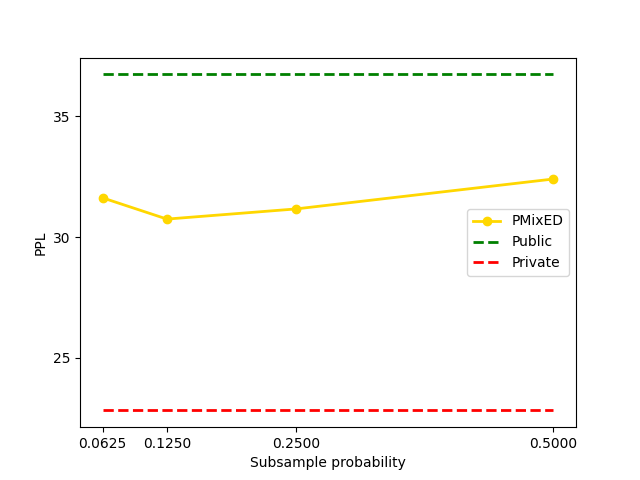
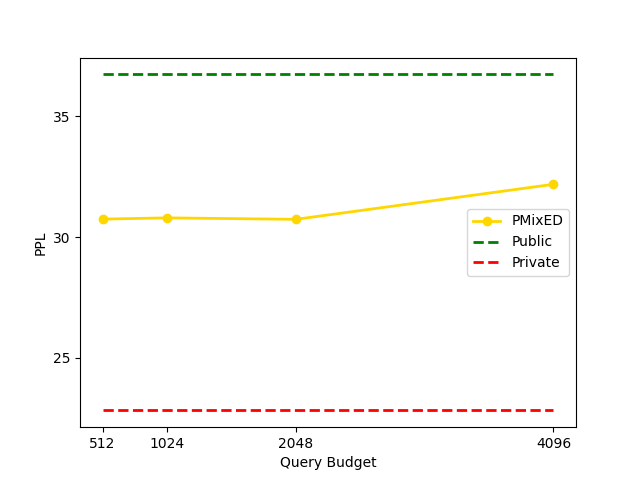
Finished ablation

diff --git a/gen_plts.py b/gen_plts.py
@@ -11,7 +11,7 @@ plt.plot(df.iloc[:5]['epsilon'], [36.74 for _ in range(5)], linestyle='dashed', 
 plt.plot(df.iloc[:5]['epsilon'], [22.83 for _ in range(5)], linestyle='dashed', linewidth=2, label='Private', color="red")
 plt.xlabel("Epsilon")
 plt.yticks([25, 30, 35])
-plt.xticks([2, 4, 6, 8])
+plt.xticks([2, 4, 6, 8, 10])
 plt.ylabel("PPL")
 plt.legend(loc='center left')
 plt.savefig('plts/epsilon.png')
@@ -44,7 +44,7 @@ plt.plot(df.iloc[14:18]['query_budget'], [36.74 for _ in range(4)], linestyle='d
 plt.plot(df.iloc[14:18]['query_budget'], [22.83 for _ in range(4)], linestyle='dashed', linewidth=2, label='Private', color="red")
 plt.xlabel("Query Budget")
 plt.yticks([25, 30, 35])
-plt.xticks([256, 512, 1024, 2048])
+plt.xticks([512, 1024, 2048, 4096])
 plt.ylabel("PPL")
 plt.legend()
 plt.savefig('plts/query_budget.png')
@@ -58,5 +58,21 @@ plt.yticks([25, 30, 35])
 plt.xticks([1/16, 1/8, 1/4, 1/2])
 plt.ylabel("PPL")
 plt.legend()
-plt.savefig('plts/query_budget.png')
+plt.savefig('plts/probability.png')
+plt.clf()
+
+data = {"Public": 35.98, "Private": 22.61, "DP-SGD": 37.33, "PMixED": 30.80}
+
+bars = plt.bar(data.keys(), data.values(), width=0.4)
+bars[0].set_color('green')
+bars[1].set_color('red')
+bars[2].set_color('blue')
+bars[2].set_color('gold')
+for bar in bars:
+    yval = bar.get_height()
+    plt.text(bar.get_x()+0.2, yval+0.1, yval, ha='center')
+#plt.text(35.98, 35.98, 35.98, ha="center")
+
+plt.ylabel("PPL")
+plt.savefig("plts/comparison.png")
 plt.clf()

diff --git a/ensemble.py b/ensemble.py
@@ -38,12 +38,12 @@ class Ensemble():
             a = 1 
             while self.subsample_eps(a * self.eps / self.q_budget, self.p, self.alpha) < self.eps / self.q_budget:
                 a += 1
-            #print("a value", (a-1))
+            print("a value", (a-1))
             self.eps = self.eps * (a-1)
 
         self.target = np.log(self.num_ensemble * np.exp((self.alpha-1) * alpha * self.eps / self.q_budget)
                         + 1 - self.num_ensemble) / (4*(self.alpha - 1))
-        #print(f"Target value {self.target:2f}")
+        print(f"Target value {self.target:2f}")
         self.lora_ensemble = 0 
         for i, dir in enumerate(self.model_dirs):
             if i == 0:

diff --git a/experiments.py b/experiments.py
@@ -9,7 +9,7 @@ parameters = ["epsilon", 'num_ensemble', 'query_budget', 'alpha', 'p', 'ppl']
 
 epsilons = [2, 4, 6, 8, 10]
 num_ensembles = [8, 16, 32, 64]
-query_budgets = [256, 512, 1024, 2048]
+query_budgets = [512, 1024, 2048]
 alphas = [3, 4, 5, 6, 7]
 p_s = [1/16, 1/8, 1/4, 1/2]
 
